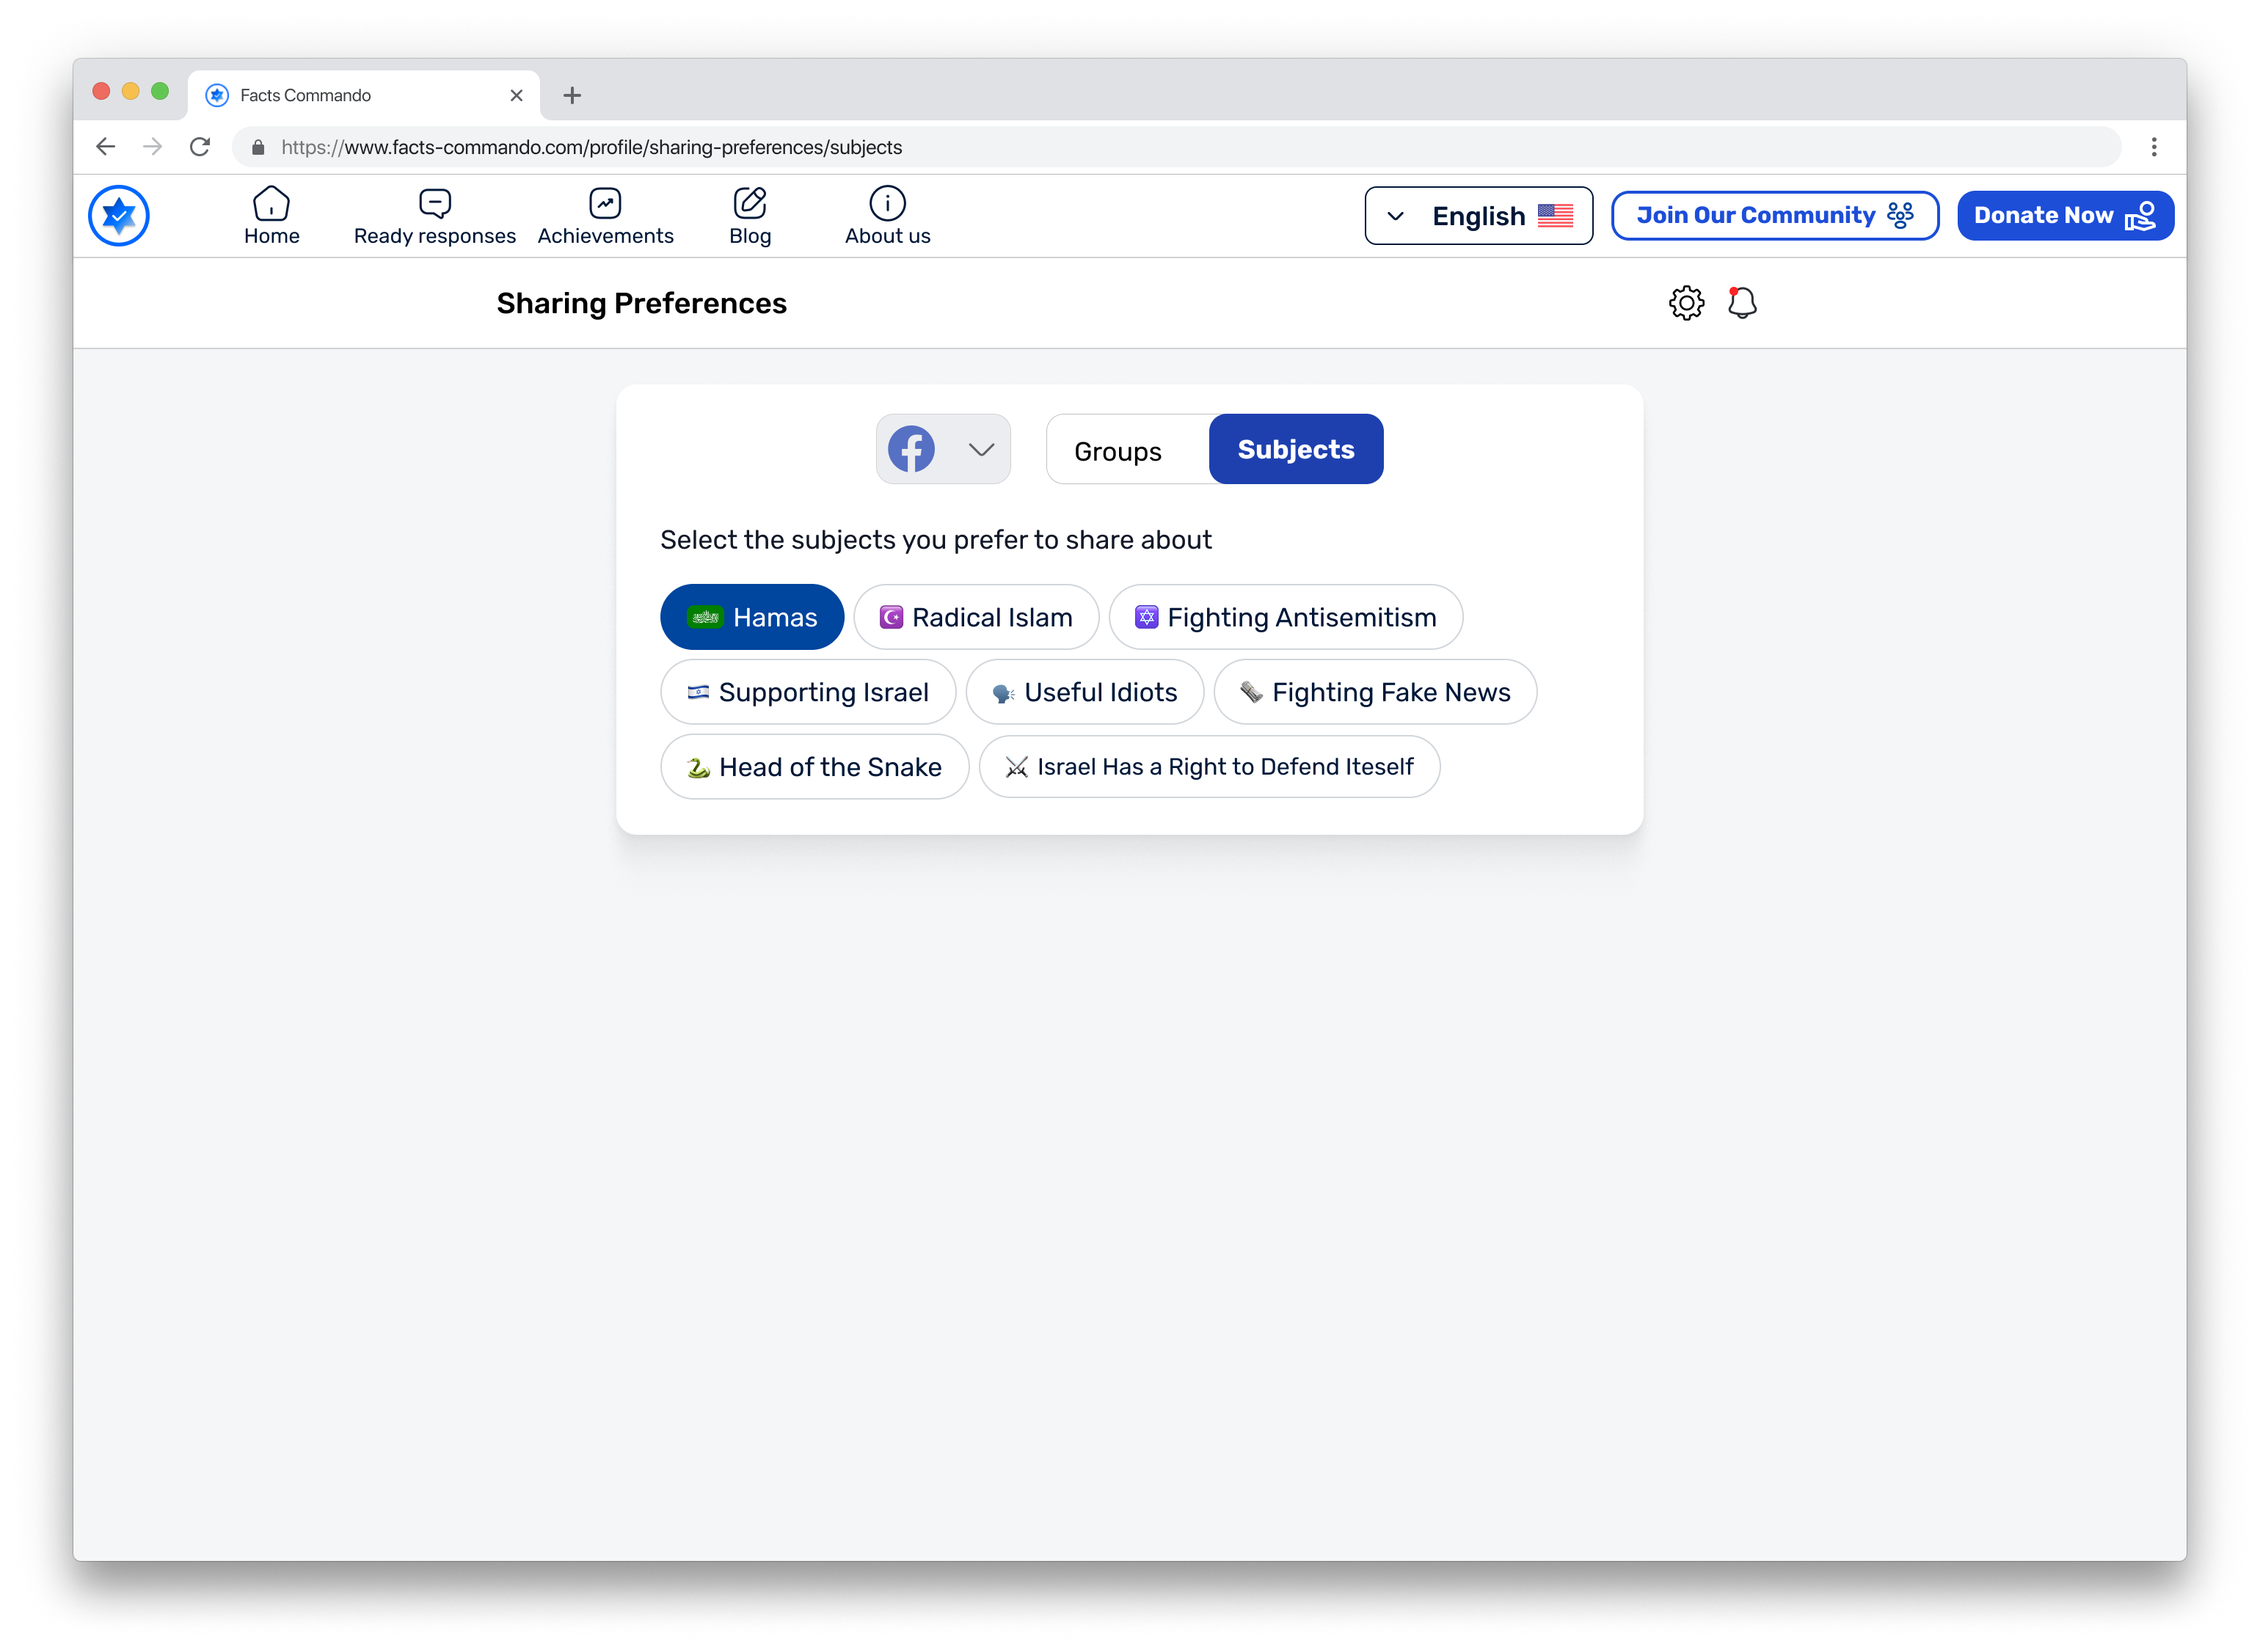
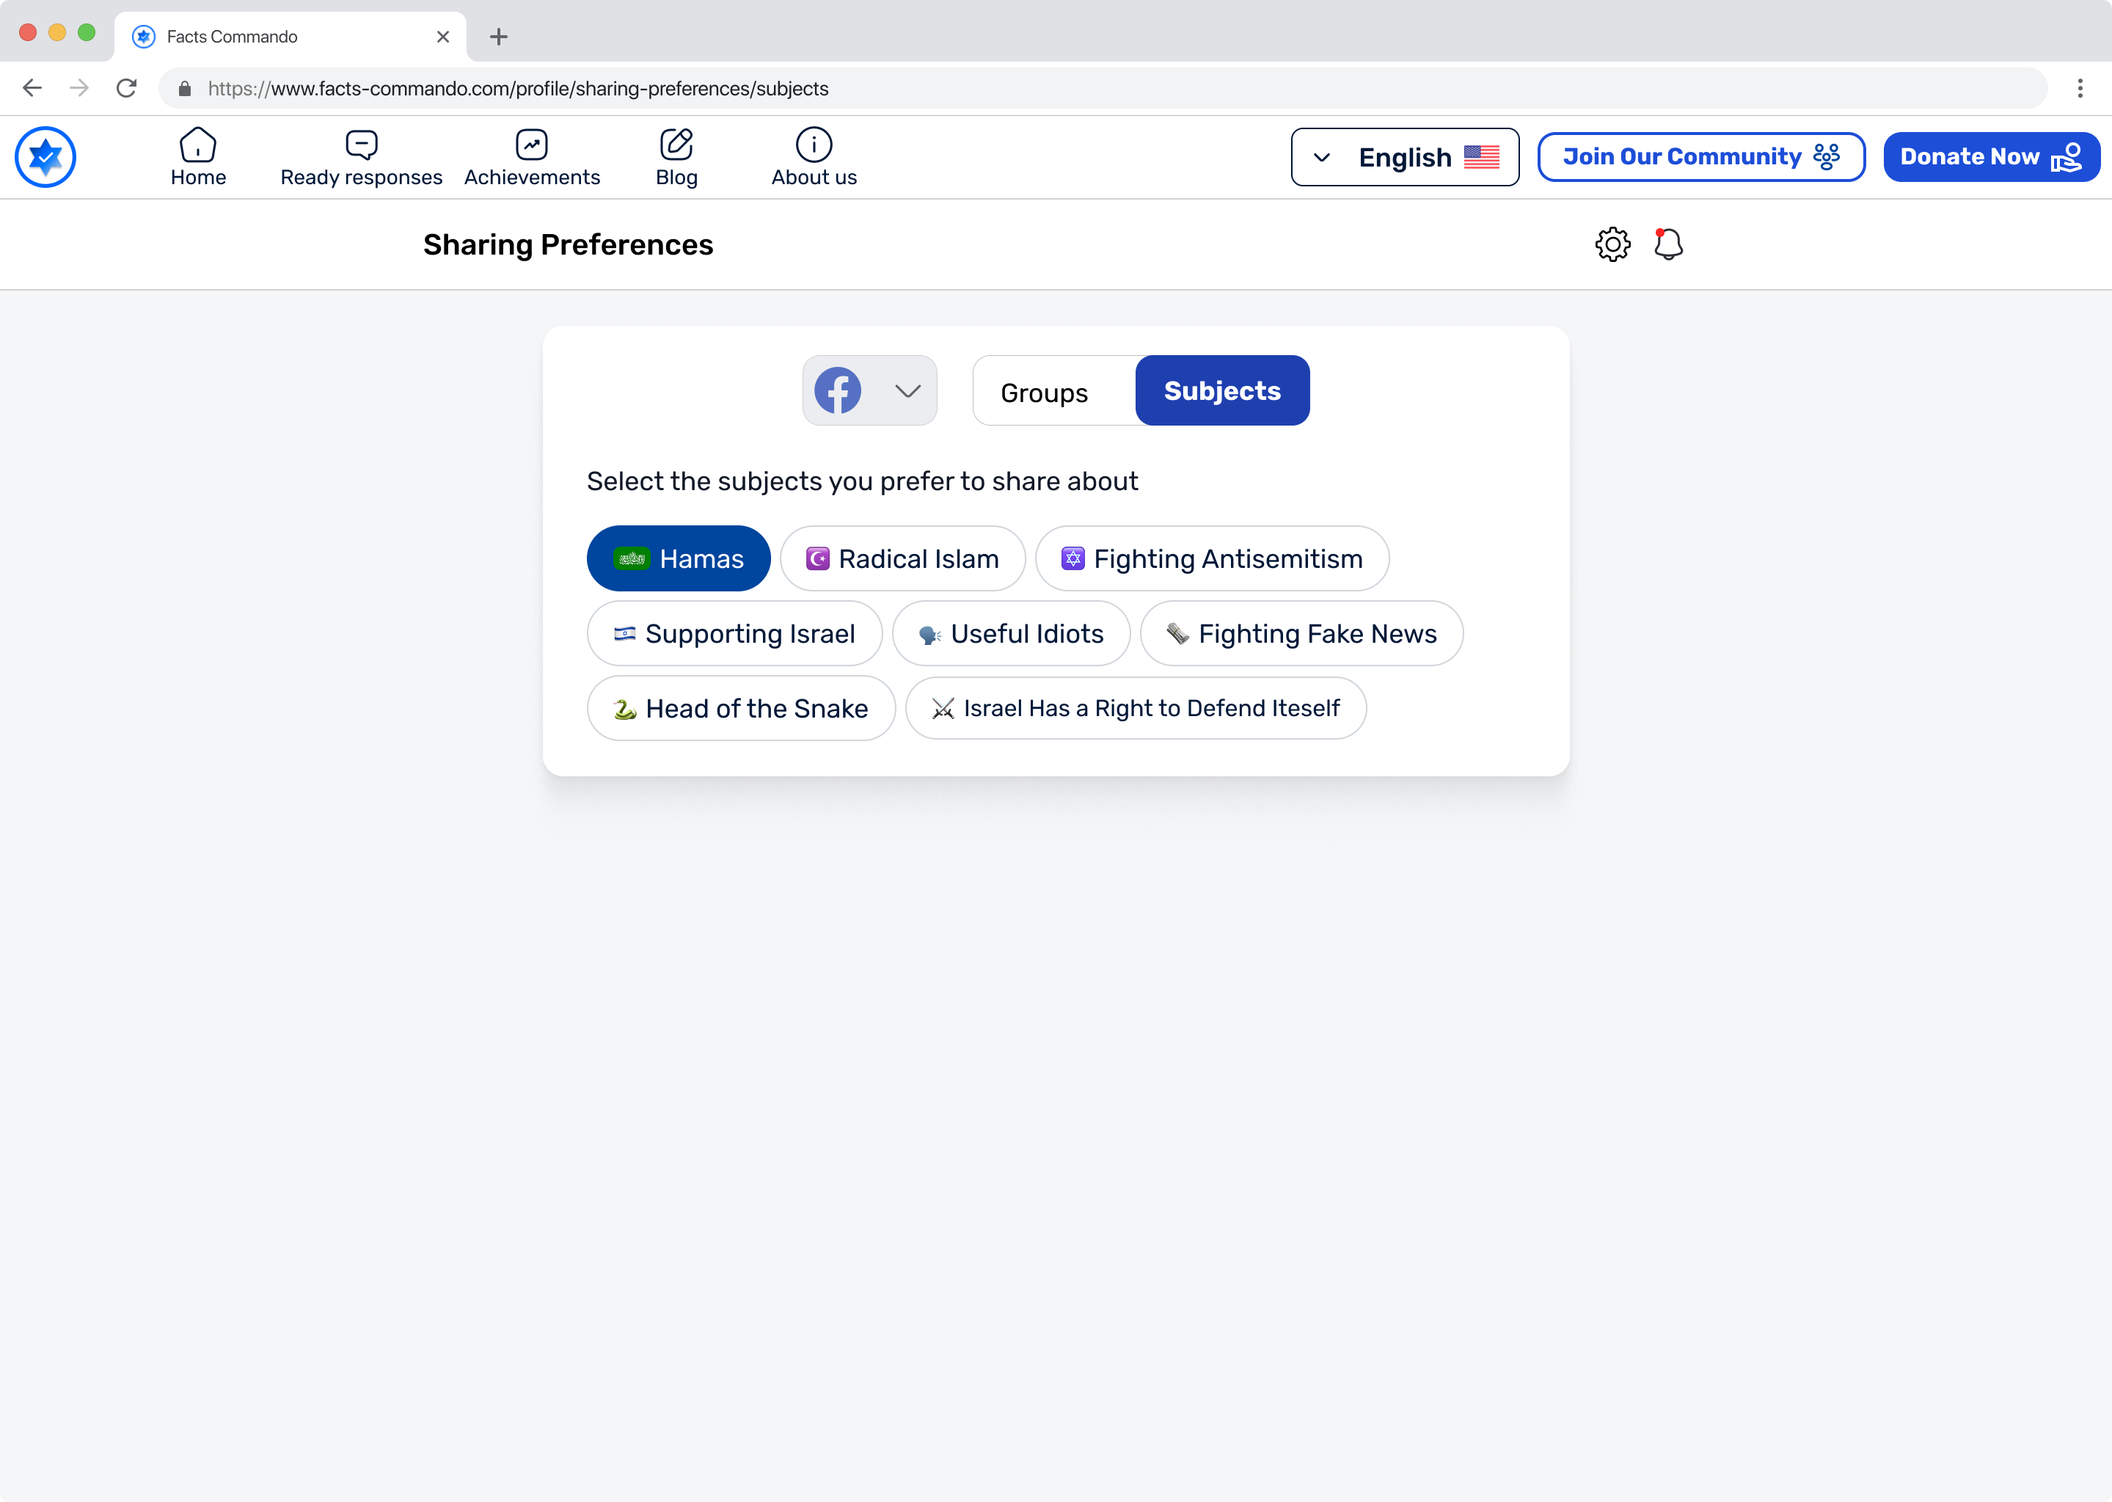
Restyle Reporting and Sharing Preferences desktop shots as secondary asides (#34)
* Restyle Reporting and Sharing Preferences desktop shots as secondary asides

Reporting: size the desktop Settings-menu shot to match the mobile one
(220px, .screen component) instead of running full-width, so it reads
as context rather than a third primary beat.

Sharing Preferences: restore the Groups list as the primary desktop
shot, with the row-actions detail demoted to a smaller pairing with
mobile underneath.

* Move Subject_Comment_Mockup back to Premade Comments & the Switcher

It had drifted into Sharing Preferences ahead of the Subjects screen.
Restored to its original spot and original caption/alt, paired with
Premade_comments.png as before.

* Match Settings-menu and row-actions blocks to the section's inline style pattern

class="screen" resolves to different background, border alpha,
padding, and radius than the inline pattern used everywhere else in
this section, plus an unwanted drop-shadow filter and square image
corners. Switched all five affected blocks (both Settings-menu shots,
the Sharing_Preference_Group primary shot, and the row-actions/mobile
pair) to the same inline container styling as the rest of the page.

* Crop desktop screen photos to the browser window edge

Removed the black canvas and gray glow/shadow backdrop around each
desktop mockup, keeping everything inside the window (traffic lights,
tabs, URL bar, page content) untouched. Applies to every desktop
screen photo in The Product section except the four still pending
[…]

Changed region(s): [[0.0, 0.0, 1.0, 0.9849], [0.2782, 0.2154, 0.7419, 0.5232], [0.371, 0.2462, 0.4328, 0.277]]

diff --git a/facts-commando.html b/facts-commando.html
@@ -169,14 +169,17 @@
 
           <h3 style="font-family: var(--font-heading); font-size: 20px; letter-spacing: -0.025em; font-weight: 600; color: var(--text-primary); margin: 0 0 6px;">Sharing Preferences</h3>
           <p style="margin-bottom: 20px; font-size: 16px;">The silent rejection becomes an explicit, editable choice - subjects on one tab, groups on the other, each one reportable or removable straight from the list.</p>
-          <div style="background:var(--bg-secondary); border:1px solid var(--border-subtle); border-radius:16px; padding:20px; max-width:460px; width:100%; margin:0 auto 16px; box-sizing:border-box;">
-            <img class="zoomable" data-group="sharing-preferences" data-cap="Where it started - choosing a subject for one comment." src="./case-images/Subject_Comment_Mockup.png?v=2x" alt="Choose subject for comments, the pattern's origin" style="width:100%; display:block; border-radius:10px;">
-          </div>
           <div style="background:var(--bg-secondary); border:1px solid var(--border-subtle); border-radius:16px; padding:20px; max-width:600px; width:100%; margin:0 auto 16px; box-sizing:border-box;">
             <img class="zoomable" data-group="sharing-preferences" data-cap="Subjects a volunteer will put their name behind - the interview finding, made operable." src="./case-images/Sharing_Preference.png?v=2x" alt="Subject preferences" style="width:100%; display:block; border-radius:10px;">
           </div>
-          <div style="display:flex; flex-wrap:wrap; justify-content:center; align-items:flex-start; gap:24px; margin-bottom:48px;">
+          <div style="display:flex; justify-content:center; margin-bottom:16px;">
             <div style="background:var(--bg-secondary); border:1px solid var(--border-subtle); border-radius:16px; padding:20px; max-width:460px; width:100%; box-sizing:border-box;">
+              <img class="zoomable" data-group="sharing-preferences" data-cap="Group-level control, desktop." src="./case-images/Sharing_Preference_Group.png?v=2x" alt="Group preferences, desktop" style="width:100%; display:block; border-radius:10px;">
+            </div>
+          </div>
+          <p style="font-family:var(--font-mono); font-size:11px; color:var(--text-muted); margin:4px 0 12px; text-align:center;">SAME LIST, REPORT OR REMOVE PER ROW</p>
+          <div style="display:flex; flex-wrap:wrap; justify-content:center; align-items:flex-start; gap:24px; margin-bottom:48px;">
+            <div style="background:var(--bg-secondary); border:1px solid var(--border-subtle); border-radius:16px; padding:20px; max-width:220px; width:100%; box-sizing:border-box;">
               <img class="zoomable" data-group="sharing-preferences" data-cap="Report or remove, right from the row - no separate settings screen." src="./case-images/Sharing_Preference_Group_Actions.png?v=2x" alt="Group row actions, desktop" style="width:100%; display:block; border-radius:10px;">
             </div>
             <div style="background:var(--bg-secondary); border:1px solid var(--border-subtle); border-radius:16px; padding:20px; max-width:220px; width:100%; box-sizing:border-box;">
@@ -216,14 +219,15 @@
 
           <h3 style="font-family: var(--font-heading); font-size: 20px; letter-spacing: -0.025em; font-weight: 600; color: var(--text-primary); margin: 0 0 6px;">Reporting</h3>
           <p style="margin-bottom: 20px;">Named reasons instead of a free-text box, so reports arrive already sorted - technical errors on one side, group-level problems like bans and denied posts on the other. No relay, no one to remember.</p>
-          <div style="display:flex; flex-wrap:wrap; justify-content:center; align-items:flex-start; gap:24px; margin-bottom:24px;">
-            <div style="background:var(--bg-secondary); border:1px solid var(--border-subtle); border-radius:16px; padding:20px; max-width:460px; width:100%; box-sizing:border-box;">
+          <div style="display:flex; flex-wrap:wrap; justify-content:center; align-items:flex-start; gap:24px; margin-bottom:8px;">
+            <div style="background:var(--bg-secondary); border:1px solid var(--border-subtle); border-radius:16px; padding:20px; max-width:220px; width:100%; box-sizing:border-box;">
               <img class="zoomable" data-group="reporting" data-cap="The same entry point, desktop." src="./case-images/Settings_menu_Desktop.png?v=2x" alt="Settings menu, entry point to Reports, desktop" style="width:100%; display:block; border-radius:10px;">
             </div>
             <div style="background:var(--bg-secondary); border:1px solid var(--border-subtle); border-radius:16px; padding:20px; max-width:220px; width:100%; box-sizing:border-box;">
               <img class="zoomable" data-group="reporting" data-cap="Where reporting lives - inside the profile, not a help page." src="./case-images/Settings_menu.png?v=2x" alt="Settings menu, entry point to Reports" style="width:100%; display:block; border-radius:10px;">
             </div>
           </div>
+          <p style="font-family:var(--font-mono); font-size:11px; color:var(--text-muted); margin:0 0 24px; text-align:center;">ENTRY POINT, BOTH WIDTHS</p>
           <div style="display:flex; flex-wrap:wrap; justify-content:center; align-items:flex-start; gap:24px; margin-bottom:24px;">
             <div style="background:var(--bg-secondary); border:1px solid var(--border-subtle); border-radius:16px; padding:20px; max-width:460px; width:100%; box-sizing:border-box;">
               <img class="zoomable" data-group="reporting" data-cap="Error reporting, desktop." src="./case-images/Personal_technical_Report_Desktop.png?v=2x" alt="Report an error, desktop" style="width:100%; display:block; border-radius:10px;">
@@ -266,8 +270,13 @@
 
           <h3 style="font-family: var(--font-heading); font-size: 20px; letter-spacing: -0.025em; font-weight: 600; color: var(--text-primary); margin: 0 0 6px;">Premade Comments &amp; the Switcher</h3>
           <p style="margin-bottom: 20px;">Premade Comments post a ready-made, swappable argument per subject. The Switcher confirms the destination - Facebook, then X.</p>
-          <div style="background:var(--bg-secondary); border:1px solid var(--border-subtle); border-radius:16px; padding:20px; max-width:600px; width:100%; margin:0 auto 16px; box-sizing:border-box;">
-            <img class="zoomable" data-group="premade-comments-switcher" data-cap="Specified with the UX designer, designed per platform." src="./case-images/Premade_comments.png?v=2x" alt="Premade Comments" style="width:100%; display:block; border-radius:10px;">
+          <div style="display:flex; flex-wrap:wrap; justify-content:center; align-items:flex-start; gap:24px; margin-bottom:16px;">
+            <div style="background:var(--bg-secondary); border:1px solid var(--border-subtle); border-radius:16px; padding:20px; max-width:460px; width:100%; box-sizing:border-box;">
+              <img class="zoomable" data-group="premade-comments-switcher" data-cap="Comments carry the same subject choice as posts." src="./case-images/Subject_Comment_Mockup.png?v=2x" alt="Choose subject for comments" style="width:100%; display:block; border-radius:10px;">
+            </div>
+            <div style="background:var(--bg-secondary); border:1px solid var(--border-subtle); border-radius:16px; padding:20px; max-width:460px; width:100%; box-sizing:border-box;">
+              <img class="zoomable" data-group="premade-comments-switcher" data-cap="Specified with the UX designer, designed per platform." src="./case-images/Premade_comments.png?v=2x" alt="Premade Comments" style="width:100%; display:block; border-radius:10px;">
+            </div>
           </div>
           <div style="display:flex; flex-wrap:wrap; justify-content:center; align-items:flex-start; gap:24px; margin-bottom:12px;">
             <div style="background:var(--bg-secondary); border:1px solid var(--border-subtle); border-radius:16px; padding:20px; max-width:400px; width:100%; box-sizing:border-box;">
